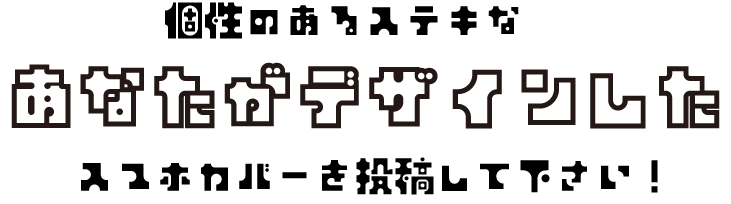
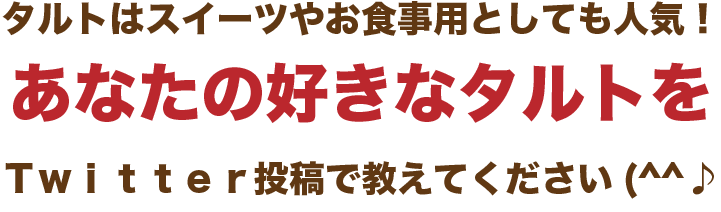
Add files via upload

diff --git a/campaign/index.html b/campaign/index.html
@@ -3,7 +3,7 @@
 <head>
 <meta charset="UTF-8">
 <meta name="viewport" content="width=device-width, initial-scale=1">
-<title>豪華商品がもらえるキャンペーン</title>
+<title>タルトが当たるキャンペーン</title>
 <link href="css/destyle.css" rel="stylesheet" type="text/css">
 <link href="css/style.css" rel="stylesheet" type="text/css">
 </head>
@@ -11,7 +11,7 @@
 <body>
 <div class="conteinar">
   <header>
-    <div class="logo"> <img src="images/logo.png" alt="日本スマホカバー協会">
+    <div class="logo"> <img src="images/logo.png" alt="日本タルト協会">
       </div>
   </header>
     
@@ -21,8 +21,8 @@
         
       <section>
         <div class="mainVisual">
-          <h1 class="sp"><img src="images/main1.png" alt="スマホカバー大募集" /></h1>
-          <h1 class="pc"><img src="images/main2.png" alt="スマホカバー大募集" /></h1>
+          <h1 class="sp"><img src="images/main.png" alt="みんなの大好きタルト大募集" /></h1>
+          <h1 class="pc"><img src="images/mainv_pc.png" alt="みんなの大好きタルト大募集" /></h1>
         </div>
       </section>
         
@@ -40,17 +40,15 @@
         
         <section>
         <div class="summary">
-            <div class="sum-ttl"><img src="images/txt.png" alt="自分がデザインしたスマホカバーの画像を投稿してください。"></div>
+            <div class="sum-ttl"><img src="images/txt.png" alt="好きなタルトを教えてください"></div>
             <div class="sum-ttl"><img src="images/img1.png" alt="応募は簡単"></div>
             <h2 id="about">応募内容</h2>
             <ol>
-            <li>キャンペーン期間中に、日本スマホカバー協会Instagram公式<br>
-                アカウント＠--------」をフォロー</li><br>
-            <li>ハッシュタグ「#私だけのスマホカバー」とあなたがデザインした<br>
-　　　　　　　　　スマホカバーの画像を投稿して応募完了</li><br>
-            <li>いいねが多かった方50名様にデザインされたスマホカバーをプレゼント</li><br>
+            <li>キャンペーン期間中に、日本のタルト協会Twitter公式アカウント＠--------」をフォロー</li>
+            <li>ハッシュタグ「#タルトの日」とあなたの好きなタルトを投稿して応募完了</li>
+            <li>抽選で100名様にタルトの詰め合わせをプレゼント!</li>
             </ol>
-            <h3>応募締切<br />2022年7月31日23時59分まで</h3>
+            <h3>応募締切<br />2022年6月30日23時59分まで</h3>
 </div>
 </section>
         
@@ -62,22 +60,21 @@
             <div class="howtoBox">
             <div class="how-icon"><img src="images/step1.png" alt="step1"></div>
             <div class="how-pic"><img src="images/img2.png" alt="フォロー"></div>
-            <p>Instagramで日本スマホカバー協会のアカウント「<a href="#">@--------</a>」をフォロー。(期間中はフォローを外さないでください)</p>
+            <p>Twitterで日本タルト協会のアカウント「<a href="#">@--------</a>」をフォロー。(期間中はフォローを外さないでください)</p>
             <div class="btn-inner"><a href="#" class="btn">フォローする</a></div>
             </div>
             <div class="howtoBox">
                 <div class="how-icon"><img src="images/step2.png" alt="step2"/></div>
             <div class="how-pic"><img src="images/img3.png" alt="ツイート"/></div>
-               <p>ハッシュタグ「<a href="#">#私だけのスマホカバー</a>」をつけて、デザインした画像を投稿する<br>
-                (個人情報は投稿しないようにご注意ください)</p>
+               <p>ハッシュタグ「<a href="#">#タルトの日</a>」をつけて、お好きなタルトをツイートする(個人情報は投稿しないようにご注意ください)</p>
             <div class="btn-inner"><a href="#" class="btn">ツイートする</a></div>
                 </div>
                 <div class="howtoBox">
                 <div class="how-icon"><img src="images/step3.png" alt="step3"/></div>
                 <div class="how-pic"><img src="images/img4.png" alt="DMでお知らせ /"></div>
-                    <p>いいねが多かった方50名様にデザインされたスマホカバーをプレゼントします。</p>
-                    <p>(フォローが外れている方は抽選の対象外です。)</p><br>
-                    <h3>賞品発送予定日<br />2022年8月31〜順次発送</h3>
+                    <p>抽選で100名様に、タルト詰め合わせが当たります。当選者には後日TwitterのDMにてお知らせします。</p>
+                    <p>(フォローが外れている方は抽選の対象外です。)</p>
+                    <h3>賞品発送予定日<br />2022年7月30〜順次発送</h3>
                 </div>
                 </div>
             </div>
@@ -87,11 +84,10 @@
         <section id="prize">
         <div class="prize">
             <h2>賞品</h2>
-            <p>日本スマホカバー協会協賛企業から、あなたのデザインしたスマホカバーを制作してお届けします。<br>
-            ※ご自身が使用されているスマートフォンの機種をお選びください。<br>
-            機種がない場合はその他を選択し、記入をお願いいたします。
+            <p>日本のタルト協会協賛企業から、おすすめタルト15種詰め合わせをお送りします。（冷凍庫でのお届けです）<br>
+            ※種類はご指定できません。<br>
             ※写真はイメージです。</p>
-            <div class="prize-img"><img src="images/main2-1.png" alt="スマホカバー"></div>
+            <div class="prize-img"><img src="images/main2-100.jpg" alt="タルト詰め合わせ"></div>
             </div>
         </section>
         
@@ -112,15 +108,9 @@
 <div class="share">
     <h3>このキャンペーンをシェアしよう</h3>
     <div class="shar-inner">
-    <div class="icon"><a href="#">
-        <img src="images/icon_Twitter_blue.png" alt="Twitter"/>
-        <img src="images/icon_Twitter.png" alt="Twitter"/></a></div>
-    <div class="icon"><a href="#">
-        <img src="images/icon_fasebook_blue.png" alt="Facebook"/>
-        <img src="images/icon_fasebook.png" alt="Facebook"/></a></div>
-    <div class="icon"><a href="#">
-        <img src="images/icon_Instagram_rgb.png" alt="Instagram"/>
-        <img src="images/icon_Instagram.png" alt="Instagram"/></a></div>
+    <div class="icon"><a href="#"><img src="images/icon_Twitter_blue.png" alt="Twitter"/></a></div>
+    <div class="icon"><a href="#"><img src="images/icon_fasebook_blue.png" alt="Facebook"/></a></div>
+    <div class="icon"><a href="#"><img src="images/icon_Instagram_rgb.png" alt="Instagram"/></a></div>
     </div>
 </div>
 </section>
@@ -131,7 +121,7 @@
     
 <footer>
     <div class="f-logo">
-    <a href="#"><img src="images/logo.png" alt="日本スマホカバー協会"></a>
+    <a href="#"><img src="images/logo.png" alt="日本タルト協会"></a>
     </div>
     </footer>
 </body>

diff --git a/campaign/css/style.css b/campaign/css/style.css
@@ -7,7 +7,7 @@ html{
 }
 body{
     font-family:"Kosugi Maru","Hiragino Sans","Hiragino Kaku Gothic ProN",Meiryo,"sans-serif";
-    background: url("../images/bg-cover_01.png") center center / cover no-repeat fixed;
+    background: url("../images/bg-cover_01.jpg") center center / cover no-repeat fixed;
 }
 img{
     max-width: 100%;
@@ -20,7 +20,7 @@ h2{
     font-size:1.8rem;
     font-weight: bold;
     text-align:center;
-    color: #3E3E44;
+    color: #603813;
     padding: 30px 0;
 }
 h3{
@@ -47,13 +47,13 @@ a.btn{
     border-radius: 10px;
     transform: translateY(0px);
     transition: all 0.3s;
-    background: #3E3E44;
+    background: #603813;
 }
 a.btn:hover{
-    color: #3E3E44;
+    color: #603813;
     background: #fff;
     transform: translateY(-3px);
-    box-shadow: 0 5px 0 #3E3E44;
+    box-shadow: 0 5px 0 #603813;
 }
 header .logo{
     padding: 20px;
@@ -77,8 +77,8 @@ footer .f-logo img{
     background: #fff;
 }
 nav{
-    padding: 40px 0 0 0;
-    background:#fff;
+    padding: 30px 0;
+    background: #BC272d;
 }
 nav ul.icon-navi{
     display: flex;
@@ -106,7 +106,7 @@ nav ul.icon-navi li img{
     padding: 0 20px;
 }
 .howto{
-    background: #CACAD8;
+    background: #F6E821;
     padding: 60px 20px 100px 20px;
 }
 .how-inner{
@@ -159,30 +159,6 @@ nav ul.icon-navi li img{
 }
 .shar-inner .icon img{
     width:80px;
-}
-.icon{
-    position: relative;
-	width: 280px;
-	height: 80px;
-	margin: 0 auto;
-	display: block;
-	border-radius: 12px;
-	overflow: hidden;
-	cursor: pointer;
-}
-.icon img{
-    position: absolute;
-	top: 50%;
-	left: 50%;
-	-webkit-transform: translate(-50%, -50%);
-	transform: translate(-50%, -50%);
-	width: 100%;
-	display: block;
-	-webkit-transition: .4s ease-in-out;
-	transition: .4s ease-in-out;
-}
-.icon:hover img:nth-of-type(2) {
-	opacity: 0;
 }
 
 @media screen and (min-width:768px){
